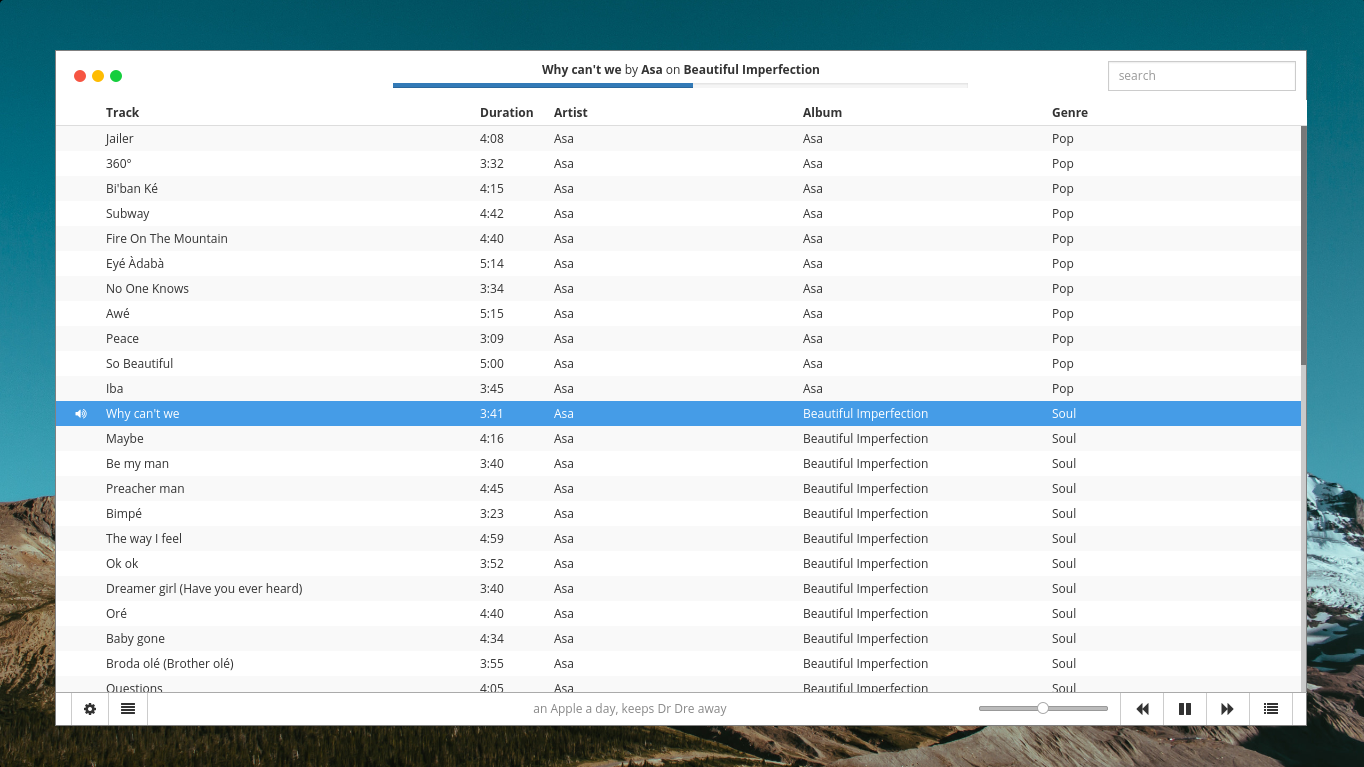
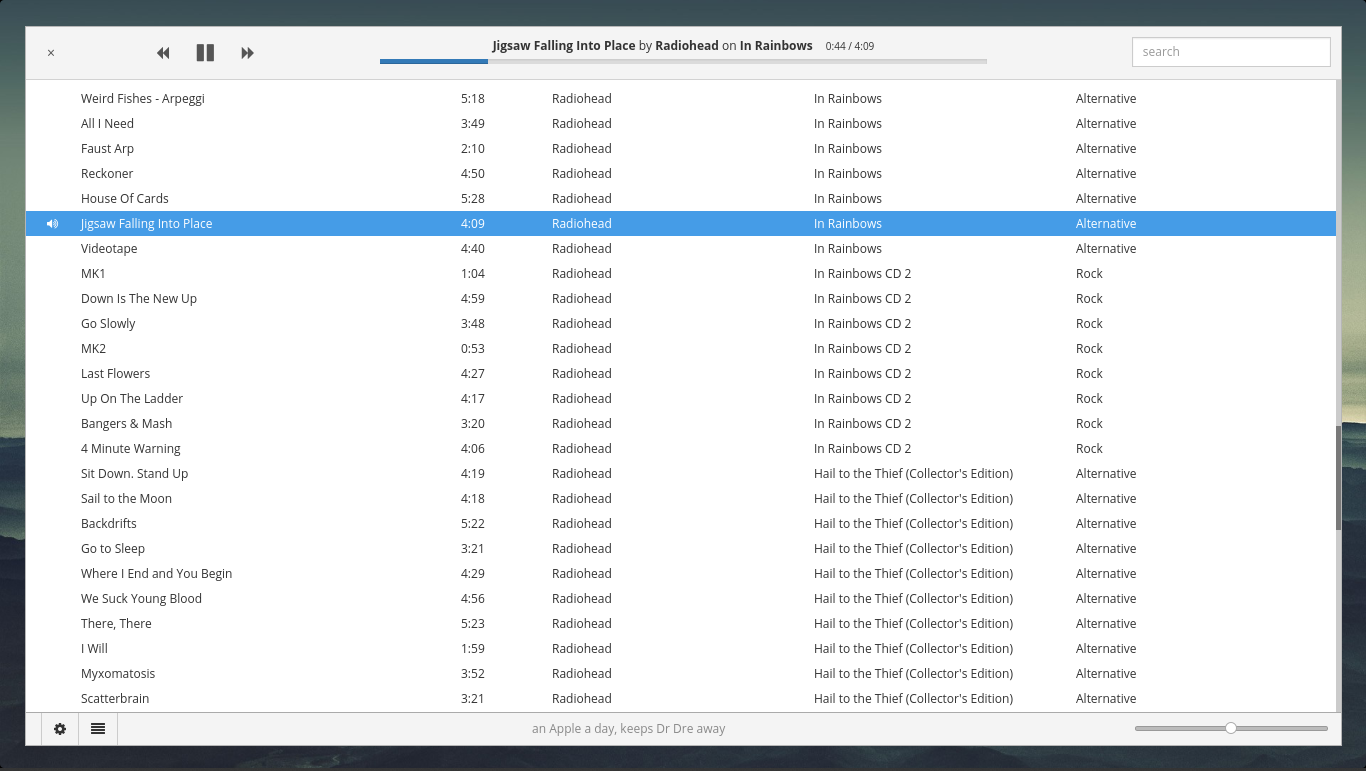
Remove system frame and add a close-button

diff --git a/src/views/build/global.js b/src/views/build/global.js
@@ -32,7 +32,7 @@ var Museeks = React.createClass({displayName: "Museeks",
 
         var notificationsBlock = Object.keys(notifications).reverse().map(function(id, i) {
             return (
-                React.createElement(Alert, {key: id, bsStyle:  notifications[id].type, className: 'notification' }, 
+                React.createElement(Alert, {key:  id, bsStyle:  notifications[id].type, className:  'notification' }, 
                      notifications[id].content
                 )
             );
@@ -45,14 +45,14 @@ var Museeks = React.createClass({displayName: "Museeks",
                 React.createElement("div", {className: 'main-content'}, 
                     React.createElement("div", {className: 'alerts-container'}, 
                         React.createElement(ReactCSSTransitionGroup, {transitionName: "notification"}, 
-                            notificationsBlock 
+                             notificationsBlock 
                         )
                     ), 
                     React.createElement(Row, {className: 'content'}, 
                         React.createElement(this.state.view, {library:  this.state.tracks, trackPlaying:  this.state.trackPlaying})
                     )
                 ), 
-                React.createElement(Footer, {status: status })
+                React.createElement(Footer, {status:  status })
             )
         );
     },
@@ -230,18 +230,21 @@ var Header = React.createClass({displayName: "Header",
 
         return (
             React.createElement("header", {className: 'row'}, 
-                React.createElement(Col, {sm: 2, className: 'player-controls text-center'}, 
+                React.createElement(Col, {sm: 3, className: 'player-controls text-center'}, 
+                    React.createElement(ButtonGroup, {className: 'win-controls'}, 
+                        React.createElement(Button, {bsSize: "small", bsStyle: "link", className: 'win-close', onClick:  this.win.close}, "×")
+                    ), 
                     React.createElement(ButtonGroup, null, 
                         React.createElement(Button, {bsSize: "small", bsStyle: "link", onClick:  this.previous}, 
                             React.createElement("i", {className: 'fa fa-fw fa-backward'})
                         ), 
-                        playButton, 
+                         playButton, 
                         React.createElement(Button, {bsSize: "small", bsStyle: "link", onClick:  this.next}, 
                             React.createElement("i", {className: 'fa fa-fw fa-forward'})
                         )
                     )
                 ), 
-                React.createElement(Col, {sm: 6, smOffset: 1, className: 'text-center'}, 
+                React.createElement(Col, {sm: 6, className: 'text-center'}, 
                     React.createElement(PlayingBar, {trackPlaying:  this.props.trackPlaying})
                 ), 
                 React.createElement(Col, {sm: 2, smOffset: 1, className: 'search'}, 
@@ -250,6 +253,27 @@ var Header = React.createClass({displayName: "Header",
             )
         );
     },
+
+    win: {
+
+       close: function () {
+           Window.close()
+       },
+
+       minimize: function () {
+           Window.minimize()
+       },
+
+       maximize: function () {
+           if (!Window.maximized) {
+               Window.maximize();
+               Window.maximized = true;
+           } else {
+               Window.unmaximize();
+               Window.maximized = false;
+           }
+       }
+   },
 
     search: function (e) {
 

diff --git a/src/css/main.css b/src/css/main.css
@@ -8,6 +8,18 @@ html, body {
 
 body {
     font-family: OpenSans;
+    border: 1px solid rgb(182, 182, 182);
+}
+
+header {
+    -webkit-app-region: drag;
+}
+
+header .player-controls > .btn-group,
+header .now-playing-bar,
+header .search > input,
+header .window-control {
+    -webkit-app-region: no-drag;
 }
 
 .btn.active.focus,
@@ -40,39 +52,30 @@ body {
     font-weight: 100;
 }
 
-/*
-.window-controls {
-    padding-right: 10px;
-    cursor: default;
+.win-controls {
+    float: left;
+    font-size: 20px;
 }
 
-.window-controls .control {
-    display: inline-block;
-    padding: 6px;
-    border-radius: 8px;
-    margin: 19px 3px;
-    cursor: pointer;
-    transition: opacity .15s ease-in-out;
-    border: 0;
-    outline: 0;
+.win-controls .btn-link {
+    transition: all .2s ease-in-out;
 }
 
-.window-controls .control:hover {
-    opacity: .5;
+.win-controls .btn-link:hover,
+.win-controls .btn-link:focus,
+.win-controls .btn-link:active {
+    text-decoration: none;
 }
 
-.window-controls .control-close {
-    background-color: #F65543;
+.win-controls .btn-link:active {
+    background-color: #DFDFDF;
+    border: solid 1px #B8B8B8;
 }
 
-.window-controls .control-maximize {
-    background-color: #15CE3D;
+.win-control .win-close {
+    line-height: 22px;
 }
 
-.window-controls .control-minimize {
-    background-color: #FEBC02;
-}
-*/
 header {
     border-bottom: 1px solid rgb(210, 210, 210);
     background-color: rgb(244, 244, 244);
@@ -98,13 +101,12 @@ input[nwdirectory] {
 
 footer {
     position: fixed;
-    bottom: 0;
-    width: 100%;
+    bottom: 1px;
+    width: calc(100% - 2px);
     border-top: 1px solid #AAA;
     padding-top: 5px;
     padding-bottom: 5px;
     background-color: rgb(244, 244, 244);
-    border-bottom: 1px solid rgb(210, 210, 210);
 }
 
 footer .btn {
@@ -124,7 +126,7 @@ footer .btn {
 }
 
 .main-content {
-    padding-bottom: 85px;
+    padding-bottom: 86px;
 }
 
 .content {

diff --git a/src/views/global.jsx b/src/views/global.jsx
@@ -230,7 +230,10 @@ var Header = React.createClass({
 
         return (
             <header className={'row'}>
-                <Col sm={2} className={'player-controls text-center'}>
+                <Col sm={3} className={'player-controls text-center'}>
+                    <ButtonGroup className={'win-controls'}>
+                        <Button bsSize='small' bsStyle='link' className={'win-close'} onClick={ this.win.close }>&times;</Button>
+                    </ButtonGroup>
                     <ButtonGroup>
                         <Button bsSize='small' bsStyle='link' onClick={ this.previous }>
                             <i className={'fa fa-fw fa-backward'}></i>
@@ -241,7 +244,7 @@ var Header = React.createClass({
                         </Button>
                     </ButtonGroup>
                 </Col>
-                <Col sm={6} smOffset={1} className={'text-center'}>
+                <Col sm={6} className={'text-center'}>
                     <PlayingBar trackPlaying={ this.props.trackPlaying } />
                 </Col>
                 <Col sm={2} smOffset={1} className={'search'}>
@@ -250,6 +253,27 @@ var Header = React.createClass({
             </header>
         );
     },
+
+    win: {
+
+       close: function () {
+           Window.close()
+       },
+
+       minimize: function () {
+           Window.minimize()
+       },
+
+       maximize: function () {
+           if (!Window.maximized) {
+               Window.maximize();
+               Window.maximized = true;
+           } else {
+               Window.unmaximize();
+               Window.maximized = false;
+           }
+       }
+   },
 
     search: function (e) {
 

diff --git a/src/views/build/libraryList.js b/src/views/build/libraryList.js
@@ -14,7 +14,7 @@ views.libraryList = React.createClass({displayName: "libraryList",
             content = (
                 React.createElement("div", {className: 'full-message'}, 
                     React.createElement("i", {className: 'fa fa-circle-o-notch fa-spin loading'}), 
-                    'Loadin\' stuff...' 
+                     'Loadin\' stuff...' 
                 )
             );
         }
@@ -36,7 +36,7 @@ views.libraryList = React.createClass({displayName: "libraryList",
 
         return (
             React.createElement("div", {className: 'view view-library-list'}, 
-                content 
+                 content 
             )
         );
     }
@@ -74,7 +74,7 @@ var LibraryListItems = React.createClass({displayName: "LibraryListItems",
             return(
                 React.createElement("tr", {className:  index === selected ? 'track selected' : 'track', key: index, onMouseDown:  self.selectTrack.bind(null, index), onDoubleClick:  Instance.selectAndPlay.bind(null, index) }, 
                     React.createElement("td", {className: 'row-trackPlaying text-center'}, 
-                        playing 
+                         playing 
                     ), 
                     React.createElement("td", {className: 'row-track'}, 
                          track.title
@@ -109,7 +109,7 @@ var LibraryListItems = React.createClass({displayName: "LibraryListItems",
                         )
                     ), 
                     React.createElement("tbody", null, 
-                        list 
+                         list 
                     )
                 )
             )

diff --git a/src/views/build/settings.js b/src/views/build/settings.js
@@ -81,8 +81,8 @@ var MusicFoldersList = React.createClass({displayName: "MusicFoldersList",
         var list = this.state.musicFolders.map(function(folder, i) {
             return(
                 React.createElement("li", {key: i}, 
-                    React.createElement("i", {onClick:  this.state.refreshingLibrary ? void(0) : this.removeFolder, "data-target": i, className:  this.state.refreshingLibrary ? 'fa fa-close delete-libray-folder disabled' : 'fa fa-close delete-libray-folder'}), 
-                    folder 
+                    React.createElement("i", {onClick:  this.state.refreshingLibrary ? void(0) : this.removeFolder, "data-target":  i, className:  this.state.refreshingLibrary ? 'fa fa-close delete-libray-folder disabled' : 'fa fa-close delete-libray-folder'}), 
+                     folder 
                 )
             );
         }.bind(this));
@@ -94,10 +94,10 @@ var MusicFoldersList = React.createClass({displayName: "MusicFoldersList",
                 React.createElement("p", null, "You currently have ",  this.state.musicFolders.length, " folder",  this.state.musicFolders.length < 2 ? '' : 's', " folders in your library."), 
 
                 React.createElement("ul", {className: "musicfolders-list"}, 
-                    list 
+                     list 
                 ), 
 
-                buttonsGroup, 
+                 buttonsGroup, 
 
                 React.createElement("hr", null)
             )

diff --git a/main.js b/main.js
@@ -19,7 +19,7 @@ app.on('ready', function() {
         'height'     : 600,
         'min-width'  : 1000,
         'min-height' : 600,
-        'frame'      : true
+        'frame'      : false
     };
 
     mainWindow = new BrowserWindow(mainWindowOption);
